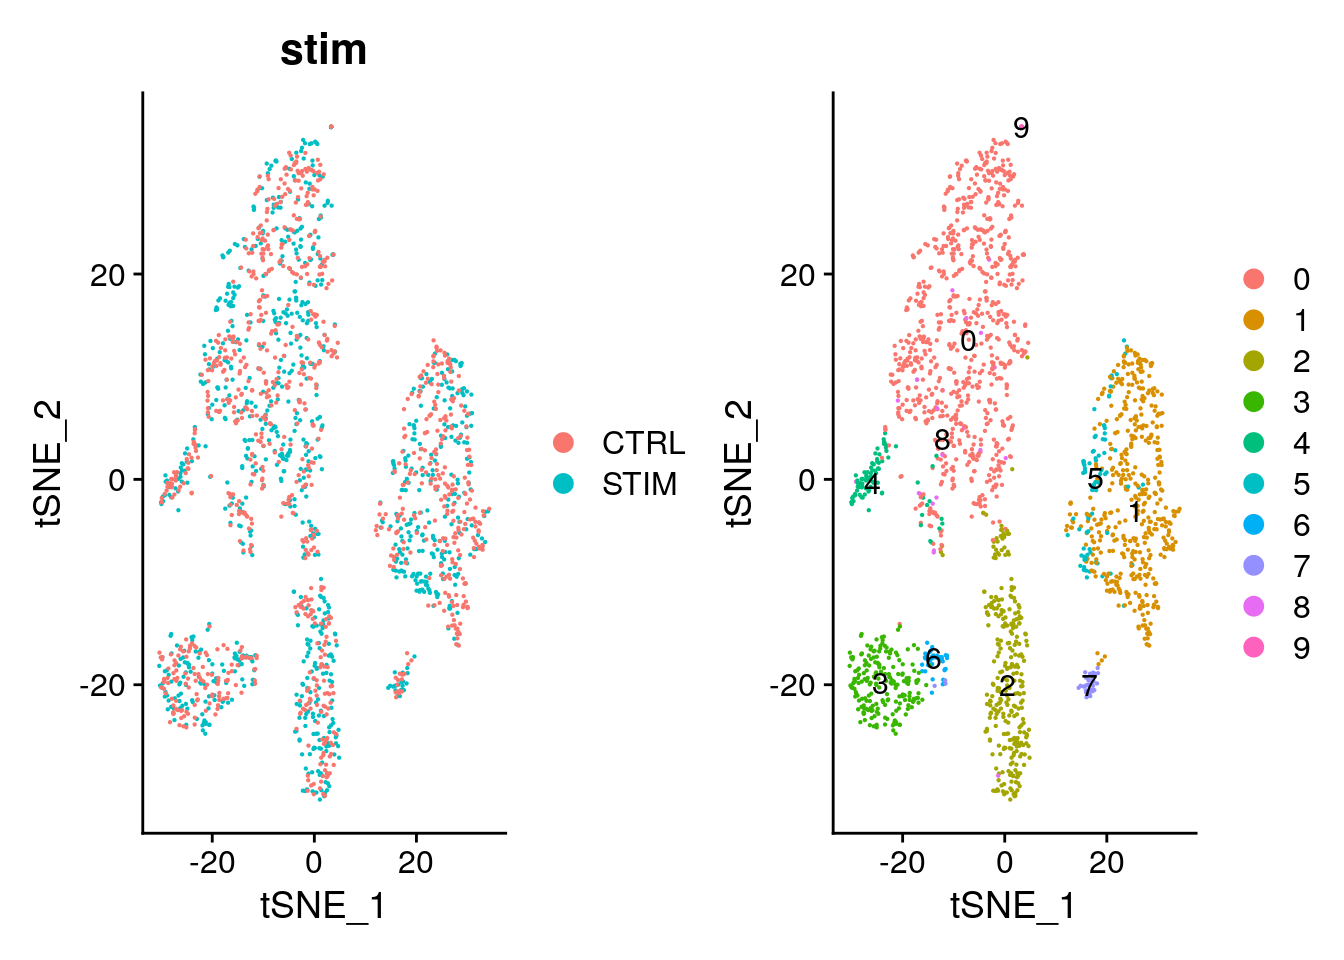
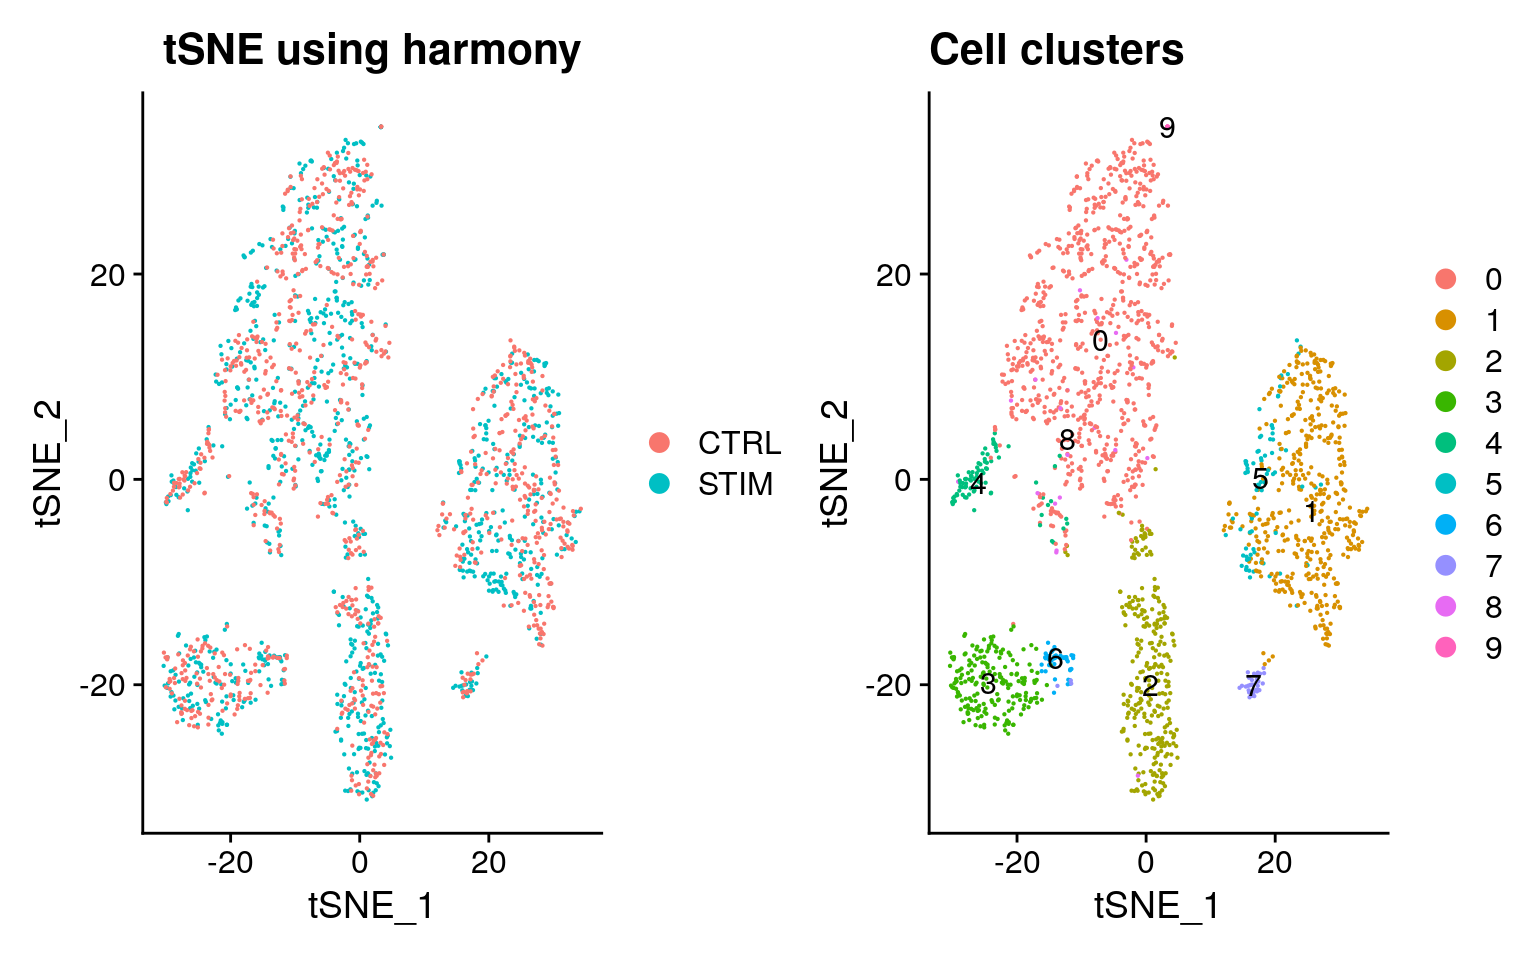
Build site.

diff --git a/docs/harmony.html b/docs/harmony.html
@@ -519,15 +519,15 @@ project makes it easier to run your code on other machines.</p>
 <div class="panel panel-default">
 <div class="panel-heading">
 <p class="panel-title">
-<a data-toggle="collapse" data-parent="#workflowr-checks" href="#strongRepositoryversionstrongahrefhttpsgithubcomdavetangmusetree6c16dce83b8942f9d10c15a28de506f8eca86bd4targetblank6c16dcea">
+<a data-toggle="collapse" data-parent="#workflowr-checks" href="#strongRepositoryversionstrongahrefhttpsgithubcomdavetangmusetree03f3f3b183f3b7cc7db4cff53bb43f35707fd3a1targetblank03f3f3ba">
 <span class="glyphicon glyphicon-ok text-success"
 aria-hidden="true"></span> <strong>Repository version:</strong>
-<a href="https://github.com/davetang/muse/tree/6c16dce83b8942f9d10c15a28de506f8eca86bd4" target="_blank">6c16dce</a>
+<a href="https://github.com/davetang/muse/tree/03f3f3b183f3b7cc7db4cff53bb43f35707fd3a1" target="_blank">03f3f3b</a>
 </a>
 </p>
 </div>
 <div
[2 lines of base64/hex data omitted]
 class="panel-collapse collapse">
 <div class="panel-body">
 <p>
@@ -537,7 +537,7 @@ reproducibility.
 </p>
 <p>
 The results in this page were generated with repository version
-<a href="https://github.com/davetang/muse/tree/6c16dce83b8942f9d10c15a28de506f8eca86bd4" target="_blank">6c16dce</a>.
+<a href="https://github.com/davetang/muse/tree/03f3f3b183f3b7cc7db4cff53bb43f35707fd3a1" target="_blank">03f3f3b</a>.
 See the <em>Past versions</em> tab to see a history of the changes made
 to the R Markdown and HTML files.
 </p>
@@ -609,6 +609,40 @@ Message
 </tr>
 </thead>
 <tbody>
+<tr>
+<td>
+Rmd
+</td>
+<td>
+<a href="https://github.com/davetang/muse/blob/03f3f3b183f3b7cc7db4cff53bb43f35707fd3a1/analysis/harmony.Rmd" target="_blank">03f3f3b</a>
+</td>
+<td>
+Dave Tang
+</td>
+<td>
+2024-04-15
+</td>
+<td>
+Quieter
+</td>
+</tr>
+<tr>
+<td>
+html
+</td>
+<td>
+<a href="https://rawcdn.githack.com/davetang/muse/b174605ed41929903234d582b174888e56ed5de6/docs/harmony.html" target="_blank">b174605</a>
+</td>
+<td>
+Dave Tang
+</td>
+<td>
+2024-04-15
+</td>
+<td>
+Build site.
+</td>
+</tr>
 <tr>
 <td>
 Rmd
@@ -1410,10 +1444,10 @@ Elapsed time: 0 seconds</code></pre>
 <p>TSNE visualisation of harmony embeddings.</p>
 <pre class="r"><code>pbmc &lt;- RunTSNE(pbmc, reduction = &quot;harmony&quot;)
 
-p1 &lt;- DimPlot(pbmc, reduction = &quot;tsne&quot;, group.by = &quot;stim&quot;, pt.size = .1)
-p2 &lt;- DimPlot(pbmc, reduction = &quot;tsne&quot;, label = TRUE, pt.size = .1)
+p1 &lt;- DimPlot(pbmc, reduction = &quot;tsne&quot;, group.by = &quot;stim&quot;, pt.size = .1) + ggtitle(&quot;tSNE using harmony&quot;)
+p2 &lt;- DimPlot(pbmc, reduction = &quot;tsne&quot;, label = TRUE, pt.size = .1) + ggtitle(&quot;Cell clusters&quot;)
 p1 + p2</code></pre>
-<p><img src="figure/harmony.Rmd/tsne-1.png" width="672" style="display: block; margin: auto;" /></p>
+<p><img src="figure/harmony.Rmd/tsne-1.png" width="768" style="display: block; margin: auto;" /></p>
 <p>
 <button type="button" class="btn btn-default btn-xs btn-workflowr btn-workflowr-fig" data-toggle="collapse" data-target="#fig-tsne-1">
 Past versions of tsne-1.png
@@ -1503,26 +1537,9 @@ Dave Tang
 </div>
 <p>Similar to TSNE, we can run UMAP by passing the harmony reduction in
 the function.</p>
-<pre class="r"><code>pbmc &lt;- RunUMAP(pbmc, reduction = &quot;harmony&quot;,  dims = 1:20)</code></pre>
-<pre><code>01:02:09 UMAP embedding parameters a = 0.9922 b = 1.112</code></pre>
-<pre><code>Found more than one class &quot;dist&quot; in cache; using the first, from namespace &#39;spam&#39;</code></pre>
-<pre><code>Also defined by &#39;BiocGenerics&#39;</code></pre>
-<pre><code>01:02:09 Read 2000 rows and found 20 numeric columns</code></pre>
-<pre><code>01:02:09 Using Annoy for neighbor search, n_neighbors = 30</code></pre>
-<pre><code>Found more than one class &quot;dist&quot; in cache; using the first, from namespace &#39;spam&#39;</code></pre>
-<pre><code>Also defined by &#39;BiocGenerics&#39;</code></pre>
-<pre><code>01:02:09 Building Annoy index with metric = cosine, n_trees = 50</code></pre>
-<pre><code>0%   10   20   30   40   50   60   70   80   90   100%</code></pre>
-<pre><code>[----|----|----|----|----|----|----|----|----|----|</code></pre>
-<pre><code>**************************************************|
-01:02:09 Writing NN index file to temp file /tmp/Rtmp7dlVK0/file78867e62c47c
-01:02:09 Searching Annoy index using 1 thread, search_k = 3000
-01:02:10 Annoy recall = 100%
-01:02:10 Commencing smooth kNN distance calibration using 1 thread with target n_neighbors = 30
-01:02:11 Initializing from normalized Laplacian + noise (using RSpectra)
-01:02:11 Commencing optimization for 500 epochs, with 83170 positive edges
-01:02:13 Optimization finished</code></pre>
-<pre class="r"><code>p1 &lt;- DimPlot(pbmc, reduction = &quot;umap&quot;, group.by = &quot;stim&quot;, pt.size = .1)
+<pre class="r"><code>pbmc &lt;- RunUMAP(pbmc, reduction = &quot;harmony&quot;,  dims = 1:20)
+
+p1 &lt;- DimPlot(pbmc, reduction = &quot;umap&quot;, group.by = &quot;stim&quot;, pt.size = .1)
 p2 &lt;- DimPlot(pbmc, reduction = &quot;umap&quot;, label = TRUE,  pt.size = .1)
 p1 + p2</code></pre>
 <p><img src="figure/harmony.Rmd/umap_harmony-1.png" width="672" style="display: block; margin: auto;" /></p>
@@ -1567,8 +1584,9 @@ Dave Tang
 <div id="seurat-sctransform-workflow-with-harmony"
 class="section level3">
 <h3>Seurat SCTransform workflow with harmony</h3>
-<p>Use SCTransform instead of <code>NormalizeData()</code>,
-<code>ScaleData()</code>, and <code>FindVariableFeatures()</code>.</p>
+<p>Use <code>SCTransform()</code> instead of
+<code>NormalizeData()</code>, <code>ScaleData()</code>, and
+<code>FindVariableFeatures()</code>.</p>
 <pre class="r"><code>pbmc &lt;- CreateSeuratObject(
   counts = cbind(pbmc.stim, pbmc.ctrl),
   project = &quot;Kang&quot;,
@@ -1578,56 +1596,54 @@ class="section level3">
 pbmc@meta.data$stim &lt;- c(rep(&quot;STIM&quot;, ncol(pbmc.stim)), rep(&quot;CTRL&quot;, ncol(pbmc.ctrl)))
 
 pbmc &lt;- SCTransform(pbmc) |&gt;
-  RunPCA(npcs = 20, verbose = FALSE)</code></pre>
-<pre><code>Running SCTransform on assay: RNA</code></pre>
-<pre><code>Running SCTransform on layer: counts</code></pre>
-<pre><code>vst.flavor=&#39;v2&#39; set. Using model with fixed slope and excluding poisson genes.</code></pre>
-<pre><code>Variance stabilizing transformation of count matrix of size 9015 by 2000</code></pre>
-<pre><code>Model formula is y ~ log_umi</code></pre>
-<pre><code>Get Negative Binomial regression parameters per gene</code></pre>
-<pre><code>Using 2000 genes, 2000 cells</code></pre>
-<pre><code>Found 18 outliers - those will be ignored in fitting/regularization step</code></pre>
-<pre><code>Second step: Get residuals using fitted parameters for 9015 genes</code></pre>
-<pre><code>Computing corrected count matrix for 9015 genes</code></pre>
-<pre><code>Calculating gene attributes</code></pre>
-<pre><code>Wall clock passed: Time difference of 5.555778 secs</code></pre>
-<pre><code>Determine variable features</code></pre>
-<pre><code>Centering data matrix</code></pre>
-<pre><code>Set default assay to SCT</code></pre>
-<pre class="r"><code>pbmc &lt;- RunHarmony(pbmc, &quot;stim&quot;)</code></pre>
-<pre><code>Transposing data matrix</code></pre>
-<pre><code>Initializing state using k-means centroids initialization</code></pre>
-<pre><code>Harmony 1/10</code></pre>
-<pre><code>Harmony 2/10</code></pre>
-<pre><code>Harmony 3/10</code></pre>
-<pre><code>Harmony 4/10</code></pre>
-<pre><code>Harmony 5/10</code></pre>
-<pre><code>Harmony 6/10</code></pre>
-<pre><code>Harmony converged after 6 iterations</code></pre>
-<pre class="r"><code>pbmc &lt;- RunUMAP(pbmc, reduction = &quot;harmony&quot;,  dims = 1:20)</code></pre>
-<pre><code>01:02:22 UMAP embedding parameters a = 0.9922 b = 1.112</code></pre>
-<pre><code>Found more than one class &quot;dist&quot; in cache; using the first, from namespace &#39;spam&#39;</code></pre>
-<pre><code>Also defined by &#39;BiocGenerics&#39;</code></pre>
-<pre><code>01:02:22 Read 2000 rows and found 20 numeric columns</code></pre>
-<pre><code>01:02:22 Using Annoy for neighbor search, n_neighbors = 30</code></pre>
-<pre><code>Found more than one class &quot;dist&quot; in cache; using the first, from namespace &#39;spam&#39;</code></pre>
-<pre><code>Also defined by &#39;BiocGenerics&#39;</code></pre>
-<pre><code>01:02:22 Building Annoy index with metric = cosine, n_trees = 50</code></pre>
-<pre><code>0%   10   20   30   40   50   60   70   80   90   100%</code></pre>
-<pre><code>[----|----|----|----|----|----|----|----|----|----|</code></pre>
-<pre><code>**************************************************|
-01:02:22 Writing NN index file to temp file /tmp/Rtmp7dlVK0/file7886875ae10
-01:02:22 Searching Annoy index using 1 thread, search_k = 3000
-01:02:22 Annoy recall = 100%
-01:02:23 Commencing smooth kNN distance calibration using 1 thread with target n_neighbors = 30
-01:02:23 Initializing from normalized Laplacian + noise (using RSpectra)
-01:02:23 Commencing optimization for 500 epochs, with 82548 positive edges
-01:02:26 Optimization finished</code></pre>
-<pre class="r"><code>DimPlot(pbmc_sct, reduction = &quot;umap&quot;, group.by = &quot;stim&quot;, pt.size = .1) + ggtitle(&quot;SCTransform without harmony&quot;) -&gt; p1
+  RunPCA(npcs = 20, verbose = FALSE)
+
+pbmc &lt;- RunHarmony(pbmc, &quot;stim&quot;)
+
+pbmc &lt;- RunUMAP(pbmc, reduction = &quot;harmony&quot;,  dims = 1:20)
+
+DimPlot(pbmc_sct, reduction = &quot;umap&quot;, group.by = &quot;stim&quot;, pt.size = .1) + ggtitle(&quot;SCTransform without harmony&quot;) -&gt; p1
 DimPlot(pbmc, reduction = &quot;umap&quot;, group.by = &quot;stim&quot;, pt.size = .1) + ggtitle(&quot;SCTransform with harmony&quot;) -&gt; p2
 
 p1 + p2</code></pre>
 <p><img src="figure/harmony.Rmd/sctransform_with_harmony-1.png" width="768" style="display: block; margin: auto;" /></p>
+<p>
+<button type="button" class="btn btn-default btn-xs btn-workflowr btn-workflowr-fig" data-toggle="collapse" data-target="#fig-sctransform_with_harmony-1">
+Past versions of sctransform_with_harmony-1.png
+</button>
+</p>
+<div id="fig-sctransform_with_harmony-1" class="collapse">
+<div class="table-responsive">
+<table class="table table-condensed table-hover">
+<thead>
+<tr>
+<th>
+Version
+</th>
+<th>
+Author
+</th>
+<th>
+Date
+</th>
+</tr>
+</thead>
+<tbody>
+<tr>
+<td>
+<a href="https://github.com/davetang/muse/blob/b174605ed41929903234d582b174888e56ed5de6/docs/figure/harmony.Rmd/sctransform_with_harmony-1.png" target="_blank">b174605</a>
+</td>
+<td>
+Dave Tang
+</td>
+<td>
+2024-04-15
+</td>
+</tr>
+</tbody>
+</table>
+</div>
+</div>
 <br>
 <p>
 <button type="button" class="btn btn-default btn-workflowr btn-workflowr-sessioninfo" data-toggle="collapse" data-target="#workflowr-sessioninfo" style="display: block;">
